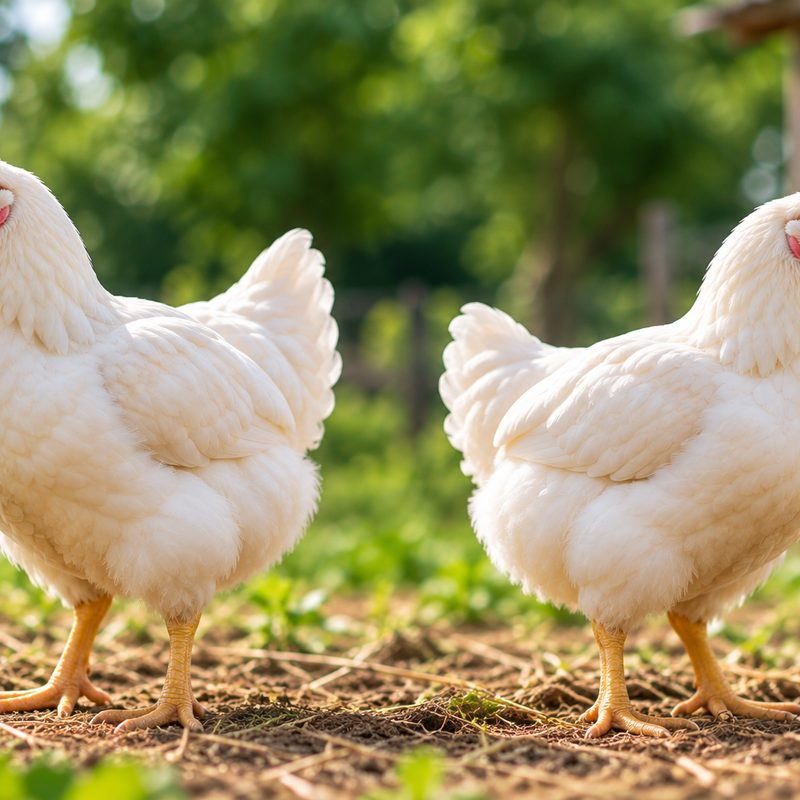
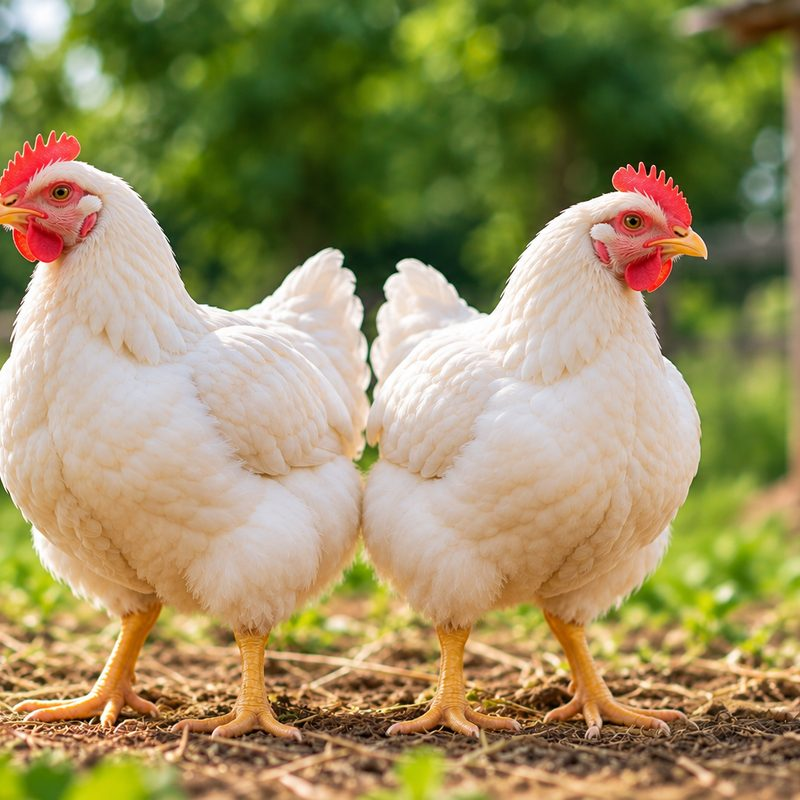
Add eggs as a real category, sold by the tray
Extends Category and the unit map in the one place they're defined
(backend/app/contracts.py) rather than duplicating the enum: eggs get
a new unit_type 'tray', validated the same way birds and animals are
(whole quantities only), plus a spec set of tray_size (12/24/30) and
egg_size (small/medium/large) instead of the bird fields that don't
apply to eggs. SourcingRequest picks this up for free since it
validates against the same UNITS map.

Mobile: categories list, unit label, and the Add Stock spec-field
switch gain a tray branch with dropdowns for tray/egg size, mirroring
the server-side enums exactly so a bad selection can't reach the API.

Wires in the category photos already dropped into assets/images/
(broilers, local_chicken, goats, cow, eggs), converting the PNG
originals to compressed, correctly-cropped JPEGs (2-2.8MB each down to
~100-150KB) to match the existing asset pipeline. beef now points at
the cow photo directly; chicken_meat and goat_meat, which have no
dedicated cut photography yet, borrow the closest live-animal photo
rather than falling back to the plain vector icon.

48 backend tests pass (1 new); 36 Flutter tests pass (4 new); analysis
clean on both sides.

diff --git a/mobile/lib/features/supplier/screens.dart b/mobile/lib/features/supplier/screens.dart
@@ -364,6 +364,7 @@ class _AddStockState extends ConsumerState<AddStockScreen> {
             'approx_age',
             'ready_date'
           ],
+        'tray' => ['tray_size', 'egg_size', 'ready_date'],
         _ => ['cut_type', 'chilled_or_frozen', 'slaughter_date']
       };
   Future<void> submit() async {
@@ -464,28 +465,40 @@ class _AddStockState extends ConsumerState<AddStockScreen> {
                                       .split('T')
                                       .first),
                               pastAllowed: k == 'slaughter_date')
-                        else if (['live_or_dressed', 'chilled_or_frozen', 'sex']
-                            .contains(k))
+                        else if ([
+                          'live_or_dressed',
+                          'chilled_or_frozen',
+                          'sex',
+                          'tray_size',
+                          'egg_size'
+                        ].contains(k))
                           Padding(
                               padding: const EdgeInsets.only(bottom: 16),
                               child: DropdownButtonFormField<String>(
                                   initialValue: field(
                                           k,
-                                          k == 'live_or_dressed'
-                                              ? 'live'
-                                              : k == 'sex'
-                                                  ? 'mixed'
-                                                  : 'chilled')
+                                          switch (k) {
+                                            'live_or_dressed' => 'live',
+                                            'sex' => 'mixed',
+                                            'tray_size' => '30',
+                                            'egg_size' => 'medium',
+                                            _ => 'chilled',
+                                          })
                                       .text,
                                   decoration:
                                       InputDecoration(labelText: label(k)),
-                                  items: (k == 'live_or_dressed'
-                                          ? ['live', 'dressed']
-                                          : k == 'sex'
-                                              ? ['male', 'female', 'mixed']
-                                              : ['chilled', 'frozen'])
+                                  items: switch (k) {
+                                    'live_or_dressed' => ['live', 'dressed'],
+                                    'sex' => ['male', 'female', 'mixed'],
+                                    'tray_size' => ['12', '24', '30'],
+                                    'egg_size' => ['small', 'medium', 'large'],
+                                    _ => ['chilled', 'frozen'],
+                                  }
                                       .map((v) => DropdownMenuItem(
-                                          value: v, child: Text(label(v))))
+                                          value: v,
+                                          child: Text(k == 'tray_size'
+                                              ? '$v eggs'
+                                              : label(v))))
                                       .toList(),
                                   onChanged: (value) => field(k).text = value!))
                         else

diff --git a/mobile/test/add_stock_eggs_test.dart b/mobile/test/add_stock_eggs_test.dart
@@ -1,0 +1,61 @@
+import 'package:flutter/material.dart';
+import 'package:flutter_riverpod/flutter_riverpod.dart';
+import 'package:flutter_test/flutter_test.dart';
+import 'package:omoterra/core/api/repository.dart';
+import 'package:omoterra/core/theme/theme.dart';
+import 'package:omoterra/features/supplier/screens.dart';
+
+Widget harness() => ProviderScope(
+    overrides: [repositoryProvider.overrideWithValue(LocalRepository())],
+    child: MaterialApp(theme: omoterraTheme(), home: const AddStockScreen()));
+
+void main() {
+  testWidgets('selecting Eggs shows tray and egg-size fields, not bird specs',
+      (tester) async {
+    tester.view.physicalSize = const Size(1080, 2400);
+    tester.view.devicePixelRatio = 1;
+    addTearDown(tester.view.resetPhysicalSize);
+    addTearDown(tester.view.resetDevicePixelRatio);
+
+    await tester.pumpWidget(harness());
+    await tester.pump();
+    await tester.pump(const Duration(milliseconds: 200));
+
+    await tester.ensureVisible(find.text('Eggs'));
+    await tester.tap(find.text('Eggs'));
+    await tester.pump();
+    await tester.tap(find.text('Continue'));
+    await tester.pumpAndSettle();
+
+    expect(find.text('Quantity (tray)'), findsOneWidget);
+    expect(find.text('Tray Size'), findsOneWidget);
+    expect(find.text('Egg Size'), findsOneWidget);
+    expect(find.text('Ready Date'), findsOneWidget);
+
+    // Bird-only fields must not leak into the eggs spec set.
+    expect(find.text('Breed Type'), findsNothing);
+    expect(find.text('Live Or Dressed'), findsNothing);
+  });
+
+  testWidgets('tray size options are 12, 24 and 30 eggs', (tester) async {
+    tester.view.physicalSize = const Size(1080, 2400);
+    tester.view.devicePixelRatio = 1;
+    addTearDown(tester.view.resetPhysicalSize);
+    addTearDown(tester.view.resetDevicePixelRatio);
+
+    await tester.pumpWidget(harness());
+    await tester.pump();
+    await tester.pump(const Duration(milliseconds: 200));
+
+    await tester.ensureVisible(find.text('Eggs'));
+    await tester.tap(find.text('Eggs'));
+    await tester.pump();
+    await tester.tap(find.text('Continue'));
+    await tester.pumpAndSettle();
+
+    await tester.tap(find.text('30 eggs'));
+    await tester.pumpAndSettle();
+    expect(find.text('12 eggs'), findsOneWidget);
+    expect(find.text('24 eggs'), findsOneWidget);
+  });
+}

diff --git a/mobile/lib/shared/widgets/components.dart b/mobile/lib/shared/widgets/components.dart
@@ -22,13 +22,16 @@ const categories = [
   'cattle',
   'chicken_meat',
   'beef',
-  'goat_meat'
+  'goat_meat',
+  'eggs',
 ];
 String unitFor(String c) => ['broilers', 'local_chicken'].contains(c)
     ? 'bird'
     : ['goats', 'cattle'].contains(c)
         ? 'animal'
-        : 'kg';
+        : c == 'eggs'
+            ? 'tray'
+            : 'kg';
 
 class OmoterraButton extends StatelessWidget {
   final String text;
@@ -182,10 +185,15 @@ class ResourceView extends ConsumerWidget {
 }
 
 /// Maps a listing category onto a photography slot in assets/images/.
+///
+/// beef uses category_cow.jpg directly. chicken_meat and goat_meat have no
+/// dedicated cut photography yet, so they borrow the closest live-animal
+/// photo rather than falling back to the plain vector icon; swap in
+/// category_chicken_meat.jpg / category_goat_meat.jpg when photos exist.
 String _slot(String category) => const {
-      'chicken_meat': 'meat',
-      'beef': 'meat',
-      'goat_meat': 'meat',
+      'beef': 'cow',
+      'chicken_meat': 'broilers',
+      'goat_meat': 'goats',
     }[category] ??
     category;
 

diff --git a/backend/app/contracts.py b/backend/app/contracts.py
@@ -4,11 +4,11 @@ from decimal import Decimal
 from typing import Annotated, Literal
 from pydantic import BaseModel, ConfigDict, Field, field_validator, model_validator
 
-Category = Literal['broilers', 'local_chicken', 'goats', 'cattle', 'chicken_meat', 'beef', 'goat_meat']
-Unit = Literal['bird', 'animal', 'kg']
+Category = Literal['broilers', 'local_chicken', 'goats', 'cattle', 'chicken_meat', 'beef', 'goat_meat', 'eggs']
+Unit = Literal['bird', 'animal', 'kg', 'tray']
 Money = Annotated[Decimal, Field(gt=0, max_digits=14, decimal_places=2)]
 Quantity = Annotated[Decimal, Field(gt=0, max_digits=14, decimal_places=3)]
-UNITS = {'broilers': 'bird', 'local_chicken': 'bird', 'goats': 'animal', 'cattle': 'animal', 'chicken_meat': 'kg', 'beef': 'kg', 'goat_meat': 'kg'}
+UNITS = {'broilers': 'bird', 'local_chicken': 'bird', 'goats': 'animal', 'cattle': 'animal', 'chicken_meat': 'kg', 'beef': 'kg', 'goat_meat': 'kg', 'eggs': 'tray'}
 
 
 class Input(BaseModel):
@@ -67,12 +67,13 @@ class ListingInput(Input):
     def category_specs(self):
         if self.unit_type != UNITS[self.category]:
             raise ValueError('Unit does not match category')
-        if self.unit_type != 'kg' and self.quantity_total % 1:
-            raise ValueError('Birds and animals require whole quantities')
+        if self.unit_type not in ('kg',) and self.quantity_total % 1:
+            raise ValueError('Birds, animals and trays require whole quantities')
         fields = {
             'bird': {'avg_weight_kg', 'breed_type', 'age_weeks', 'live_or_dressed', 'ready_date'},
             'animal': {'weight_range', 'breed', 'sex', 'approx_age', 'ready_date'},
             'kg': {'cut_type', 'chilled_or_frozen', 'slaughter_date'},
+            'tray': {'tray_size', 'egg_size', 'ready_date'},
         }[self.unit_type]
         if set(self.specs) != fields or any(not str(v).strip() for v in self.specs.values()):
             raise ValueError(f'Required specification fields: {", ".join(sorted(fields))}')
@@ -94,6 +95,14 @@ class ListingInput(Input):
             raise ValueError('Choose live or dressed')
         if self.unit_type == 'kg' and self.specs['chilled_or_frozen'] not in ['chilled', 'frozen']:
             raise ValueError('Choose chilled or frozen')
+        if self.unit_type == 'tray':
+            try:
+                if int(self.specs['tray_size']) not in (30, 24, 12):
+                    raise ValueError('Choose a tray size of 12, 24 or 30 eggs')
+            except (TypeError, ValueError):
+                raise ValueError('Choose a tray size of 12, 24 or 30 eggs')
+            if self.specs['egg_size'] not in ['small', 'medium', 'large']:
+                raise ValueError('Choose an egg size')
         date.fromisoformat(str(self.specs['slaughter_date' if self.unit_type == 'kg' else 'ready_date']))
         if any(not re.fullmatch(r'/media/[a-f0-9-]{36}', photo) for photo in self.photos):
             raise ValueError('Use photos uploaded through Omoterra')
@@ -216,3 +225,7 @@ class SaleInput(Input):
         if value > date.today():
             raise ValueError('A sale date cannot be in the future')
         return value
+
+
+class SaleReversalInput(Input):
+    reason: str = Field(min_length=5, max_length=500)

diff --git a/backend/tests/test_flows.py b/backend/tests/test_flows.py
@@ -182,6 +182,32 @@ def test_supplier_submission_to_buyer_approval_boundary(client, seeded):
     assert client.post('/api/v1/supplier/stock', headers=headers('supplier', 'another-stock-key'), json=data).status_code == 422
 
 
+def test_eggs_listing_uses_tray_specs_and_rejects_bad_tray_size(client, seeded):
+    data = {'category': 'eggs', 'unit_type': 'tray', 'region': 'Pwani', 'quantity_total': '40',
+            'farmer_asking_price_per_unit': '9000', 'photos': [],
+            'specs': {'tray_size': '30', 'egg_size': 'medium', 'ready_date': '2027-01-01'}}
+    response = client.post('/api/v1/supplier/stock', headers=headers('supplier'), json=data)
+    assert response.status_code == 200
+    id = response.json()['id']
+    approved = client.post(f'/api/v1/ops/listings/{id}/approve',
+        headers={'X-Ops-Token': 'test-operator-secret'},
+        json={'buyer_price_per_unit': '10000', 'public_alias': 'Egg Partner'})
+    assert approved.status_code == 200
+    result = client.get(f'/api/v1/listings/{id}', headers=headers()).json()
+    assert result['unit_type'] == 'tray'
+    assert result['quantity_available'] == '40.000'
+
+    # A fractional tray count is rejected, like birds and animals.
+    fractional = {**data, 'quantity_total': '40.5'}
+    assert client.post('/api/v1/supplier/stock', headers=headers('supplier', 'egg-key-2'),
+        json=fractional).status_code == 422
+
+    # Only 12/24/30-egg trays are accepted.
+    bad_size = {**data, 'specs': {**data['specs'], 'tray_size': '20'}}
+    assert client.post('/api/v1/supplier/stock', headers=headers('supplier', 'egg-key-3'),
+        json=bad_size).status_code == 422
+
+
 def test_stale_checkout_view_releases_hold_and_zeroes_availability(client, sessions, seeded):
     from decimal import Decimal
     id = reserve(sessions, seeded)

diff --git a/docs/photography.md b/docs/photography.md
@@ -4,16 +4,20 @@ Drop files here using these exact names and they appear in the app. Until a
 file exists, the screen falls back to the built-in vector artwork, so nothing
 breaks while photography is outstanding.
 
-| File | Used on | Suggested size |
-| --- | --- | --- |
-| `splash.jpg` | Splash background | 1080 x 1920 |
-| `welcome.jpg` | Welcome hero | 1080 x 1100 |
-| `category_broilers.jpg` | Category tiles, listing fallback | 800 x 800 |
-| `category_local_chicken.jpg` | " | 800 x 800 |
-| `category_goats.jpg` | " | 800 x 800 |
-| `category_cattle.jpg` | " | 800 x 800 |
-| `category_meat.jpg` | " | 800 x 800 |
-| `category_other.jpg` | " | 800 x 800 |
+| File | Used on | Suggested size | Status |
+| --- | --- | --- | --- |
+| `splash.jpg` | Splash background | 1080 x 1920 | ✅ |
+| `welcome.jpg` | Welcome hero | 1080 x 1100 | ✅ |
+| `logo.png` | Wordmark | — | ✅ |
+| `category_broilers.jpg` | Broilers tiles, listing fallback | 800 x 800 | ✅ |
+| `category_local_chicken.jpg` | Local chicken tiles, listing fallback | 800 x 800 | ✅ |
+| `category_goats.jpg` | Goats tiles, listing fallback; also goat_meat fallback | 800 x 800 | ✅ |
+| `category_cow.jpg` | Beef listing fallback (cattle has no live-sale category in V1) | 800 x 800 | ✅ |
+| `category_eggs.jpg` | Eggs tiles, listing fallback | 800 x 800 | ✅ |
+| `category_chicken_meat.jpg` | chicken_meat fallback — currently borrows category_broilers.jpg | 800 x 800 | missing |
+| `category_goat_meat.jpg` | goat_meat fallback — currently borrows category_goats.jpg | 800 x 800 | missing |
+| `category_other.jpg` | Uncategorised fallback | 800 x 800 | missing |
+| `dashboard_banner.jpg` | Buyer Home "Buy Supply" hero card | 1600 x 900 | ✅ (still .png, needs converting) |
 | `business_chicken_shop.jpg` | Start a Business | 1080 x 720 |
 | `business_butchery.jpg` | " | 1080 x 720 |
 | `business_fish_shop.jpg` | " | 1080 x 720 |
